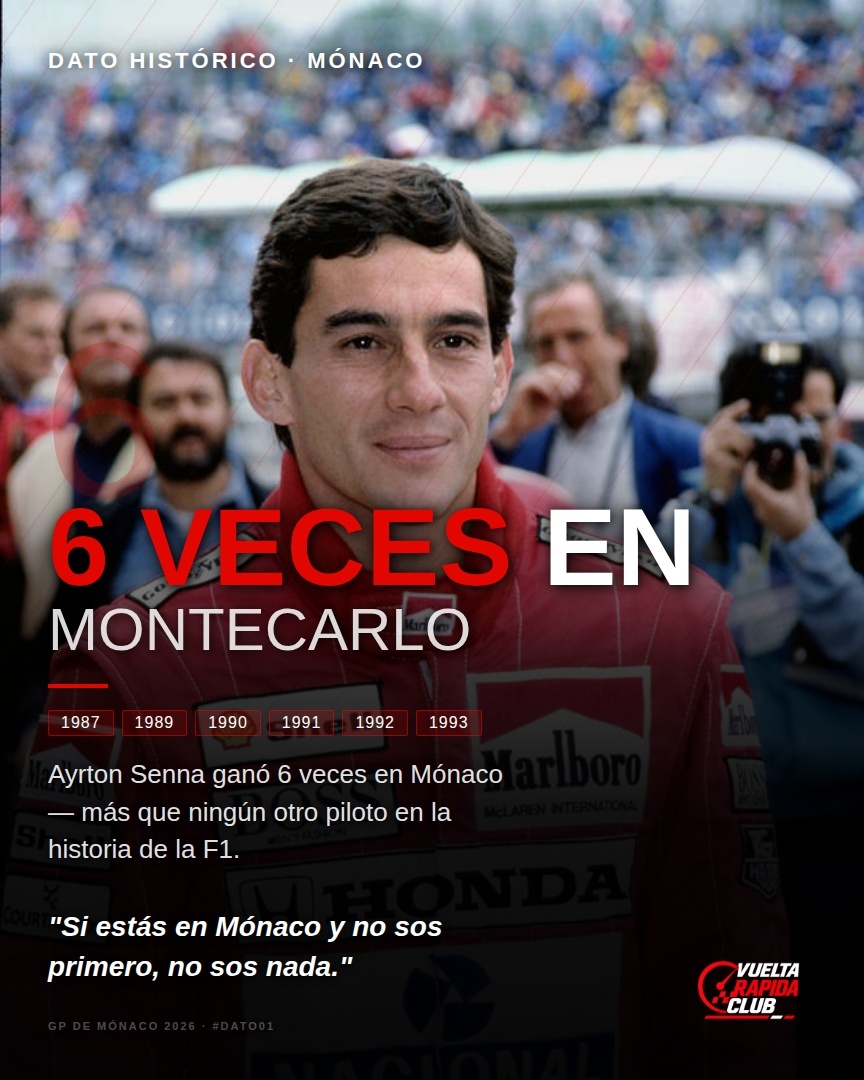
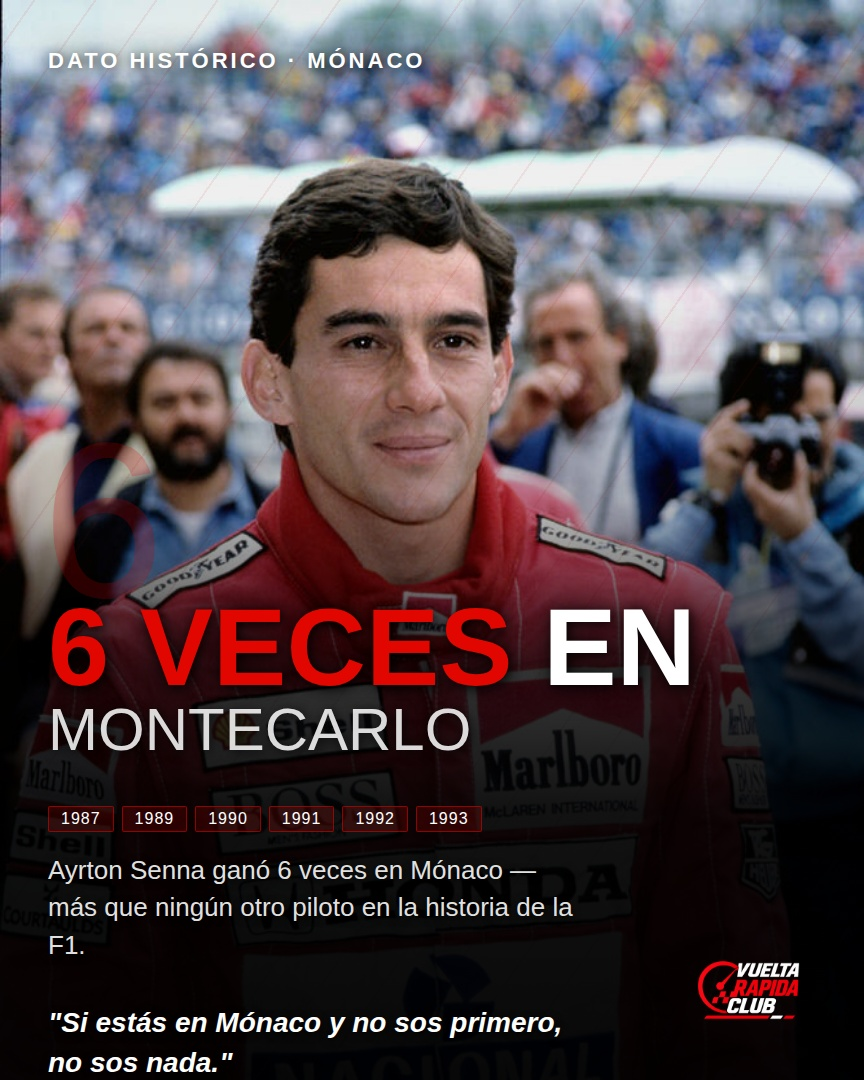
Textos más abajo, más foto visible arriba, ancho de texto equilibrado
https://claude.ai/code/session_014X65KHBDaKyUAH1A68HfVZ

Changed region(s): [[0.0312, 0.3361, 0.6562, 1.0], [0.625, 0.4583, 0.8125, 0.6417], [0.125, 0.3056, 0.1562, 0.3361]]

diff --git a/post-senna-monaco.html b/post-senna-monaco.html
@@ -79,7 +79,7 @@
       padding: 48px 130px 48px 48px;
     }
 
-    .spacer { flex: 1; }
+    .spacer { flex: 1; min-height: 380px; }
 
     /* Número decorativo */
     .big-number {
@@ -157,7 +157,7 @@
       font-size: 26px;
       color: rgba(255,255,255,0.90);
       line-height: 1.45;
-      max-width: 460px;
+      max-width: 540px;
       margin-bottom: 32px;
       text-shadow: 0 2px 8px rgba(0,0,0,0.9);
     }
